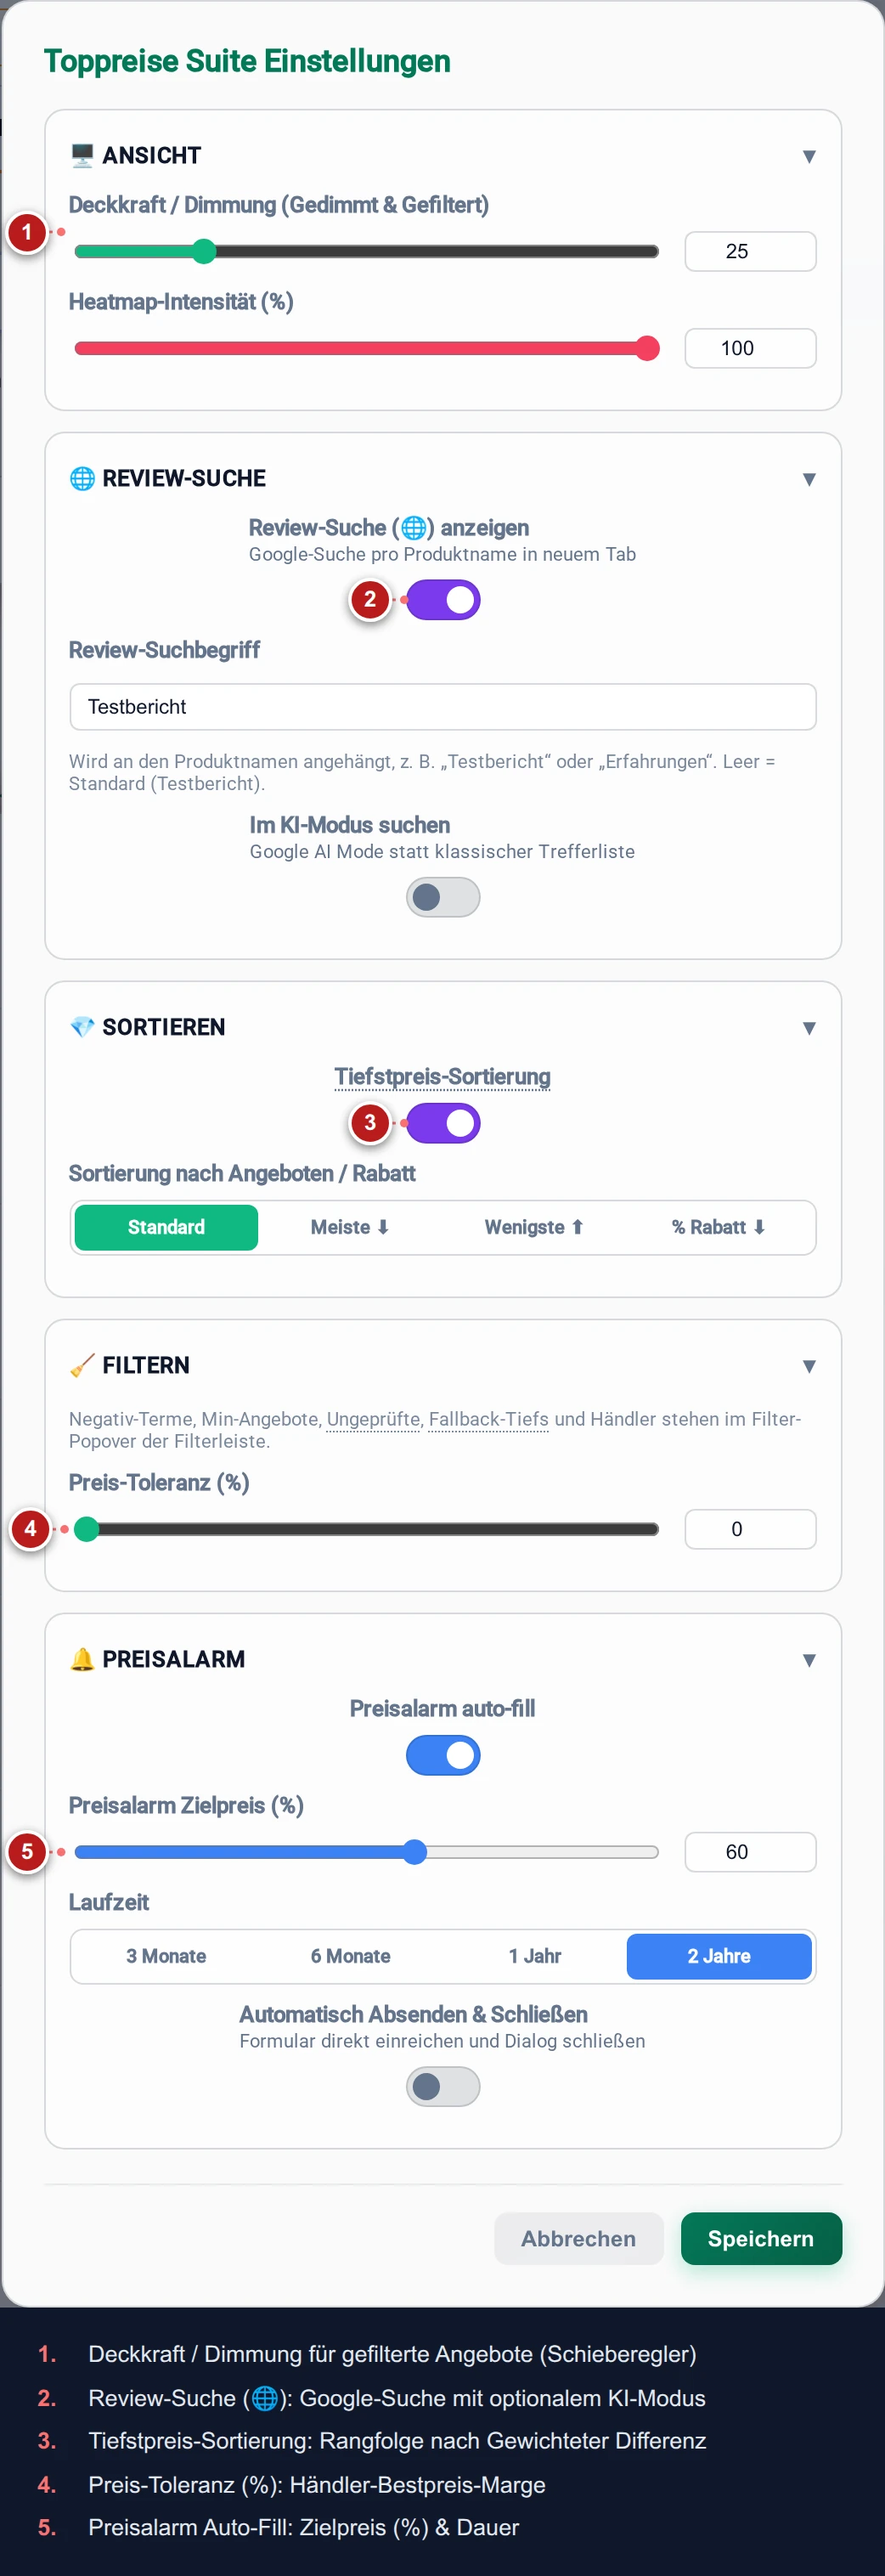
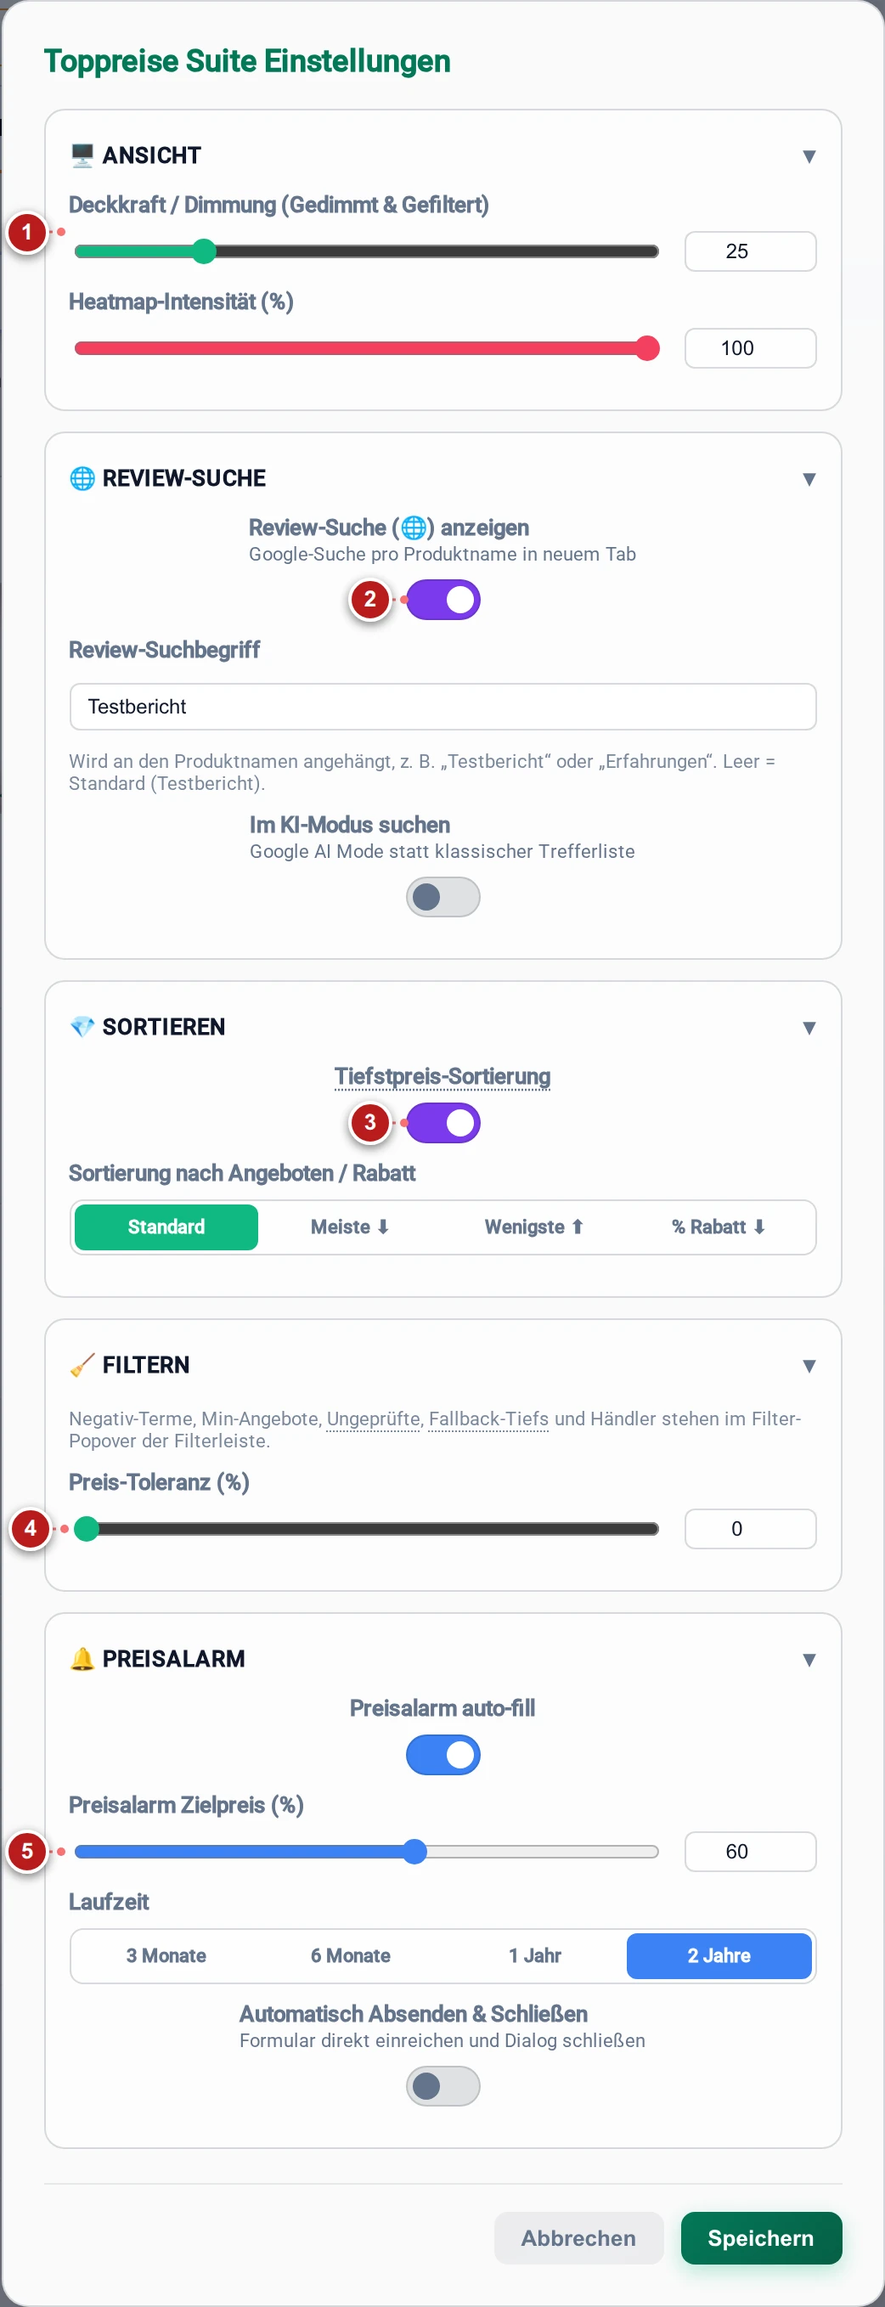
chore(shots): strip baked text footer from screenshots in favor of readme tables

diff --git a/toppreise/docs/shots/index.html b/toppreise/docs/shots/index.html
@@ -125,7 +125,7 @@
 <body>
 <header>
   <h1>Toppreise.ch Suite — Screenshot Gallery</h1>
-  <div class="timestamp">Generiert: 2026-10-17 20:53:38 UTC</div>
+  <div class="timestamp">Generiert: 2026-10-18 10:01:52 UTC</div>
 </header>
 <main class="gallery-grid">
   

diff --git a/toppreise/tools/refresh-screenshot.py b/toppreise/tools/refresh-screenshot.py
@@ -332,34 +332,6 @@ def render_annotated(annotator_page, raw_bytes, origin, callouts, out_path):
     z-index: 100;
     pointer-events: none;
   }}
-  .tp-shot-footer {{
-    background: #0f172a;
-    color: #f8fafc;
-    padding: 18px 22px;
-    line-height: 1.45;
-  }}
-  .tp-shot-footer ol {{
-    margin: 0;
-    padding: 0;
-    list-style: none;
-    display: flex;
-    flex-direction: column;
-    gap: 6px;
-  }}
-  .tp-shot-footer li {{
-    font-size: 13.5px;
-    display: flex;
-    gap: 8px;
-    align-items: baseline;
-  }}
-  .tp-shot-num {{
-    color: #f87171;
-    font-weight: 700;
-    min-width: 22px;
-  }}
-  .tp-shot-text {{
-    color: #e2e8f0;
-  }}
 </style>
 </head>
 <body>
@@ -370,11 +342,6 @@ def render_annotated(annotator_page, raw_bytes, origin, callouts, out_path):
       {''.join(svg_leaders)}
     </svg>
     {''.join(badges_html)}
-  </div>
-  <div class="tp-shot-footer">
-    <ol>
-      {''.join(footer_items)}
-    </ol>
   </div>
 </div>
 </body>
